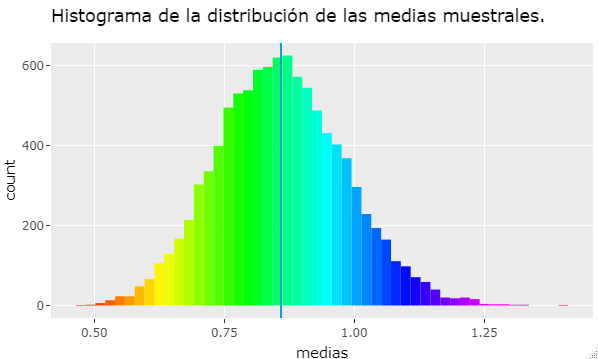
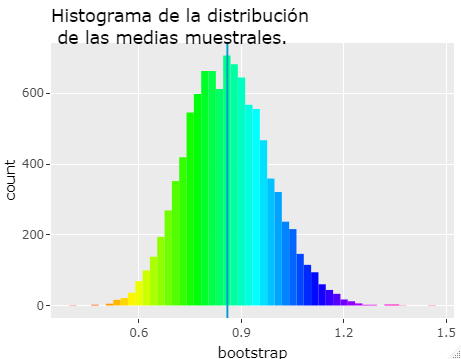
cambios imagen y de readme

diff --git a/README.md b/README.md
@@ -1,4 +1,4 @@
-# POSTWORK 1 Sesión 1.
+# POSTWORK 1.
 
 # Objetivo
 
@@ -13,6 +13,7 @@ library(ggplot2)
 library(RColorBrewer)
 library(dplyr)
 library(boot)
+library(plotly)
 ```
 
  2. Ajustamos nuestro espacio de trabajo con
@@ -131,17 +132,24 @@ data = union_all(data,df_1920)
 ```
  4. Un gráfico de barras para las probabilidades marginales estimadas del número de goles que anota el equipo de casa.
 ```R
-barplot(FTHG.tab,main = "Equipo de casa", col = c("blue","yellow","orange","green"))
+barplot(FTHG.tab,main = "Equipo de casa (FTHG)",
+        col = c(brewer.pal(8, "Dark2")),
+        xlab = "Número de goles",
+        ylab = "Frecuencia")
+
 ```
 
-<img src="imagenes/goles_FTHG.jpeg" align="center" height="250" width="400">
+<img src="imagenes/goles_FTHG.jpeg" align="center" height="470" width="400">
 
  5. Un gráfico de barras para las probabilidades marginales estimadas del número de goles que anota el equipo visitante.
 ```R
-barplot(FTAG.tab,main = "Equipo visitante", col = c("purple","orange","blue","pink"))
+barplot(FTAG.tab,main = "Equipo visitante (FTAG)",
+        col = c(brewer.pal(5, "Set1")),
+        xlab = "Número de goles",
+        ylab = "Frecuencia")
 ```
 
-<img src="imagenes/goles_FTAG.jpeg" align="center"  height="250" width="400">
+<img src="imagenes/goles_FTAG.jpeg" align="center"  height="470" width="400">
 
  6. Un HeatMap para las probabilidades conjuntas estimadas de los números de goles que anotan el equipo de casa y el equipo visitante en un partido.
 
@@ -154,7 +162,7 @@ ggplot(conjunto.df,aes(x=FTHG,y=FTAG, fill=Frecuencia)) +
   geom_text(aes(label=round(Frecuencia,3)), size=3)
 ```
 
-<img src="imagenes/Heatmap.png"  align="center" height="250" width="500">
+<img src="imagenes/Heatmap.png"  align="center" height="470" width="500">
 
 
 # POSTWORK 4
@@ -164,37 +172,31 @@ ggplot(conjunto.df,aes(x=FTHG,y=FTAG, fill=Frecuencia)) +
 - Investigar la dependencia o independecia de las variables aleatorias X y Y, el número de goles anotados por el equipo de casa y el número de goles anotados por el equipo visitante.
 
 # Desarrollo
- 1. Obten tabla de cocientes pc/pm
-
+ 1. Obten tabla de cocientes de probabilidad conjunta entre el producto de las probabilidades marginales 
 ```R
-conjunto.df <- cbind.data.frame(conjunto.tab, matrix(0,dim(conjunto.df)[1], dim(conjunto.df)[2] ) )
-colnames(conjunto.df) <- c("FTHG","FTAG","ProbAcum", "ProbH", "ProbA", "Cocientes")
+FTHG.df <- as.data.frame(FTHG.tab)
+FTAG.df <- as.data.frame(FTAG.tab)
+
+conjunto.df <- cbind(conjunto.df, rep(FTHG.df$Freq,nrow(FTAG.df)),rep(FTAG.df$Freq, each=nrow(FTHG.df)))
+colnames(conjunto.df) <- c("FTHG","FTAG", "ProbAcum", "ProbH","ProbA")
+conjunto.df <- mutate(as.data.frame(conjunto.df), Cocientes=ProbAcum/(ProbH*ProbA))
 ```
 
- 2. Obten tabla de cocientes Pcoc = pc/pm
+ 2. Gráfico de barras de cocientes
 ```R
-Pcoc = matrix(0, dim(conjunto.tab)[1],dim(conjunto.tab)[2])
-for (j in 1:dim(conjunto.tab)[2]) {
-  for (i in 1:dim(conjunto.tab)[1]) {
-    
-    Pcoc[i,j] <- conjunto.tab[i,j]/as.vector(FTHG.tab[i]*FTAG.tab[j])
-    # print(i+(9*(j-1)))
-    conjunto.df[(i+(9*(j-1))),4] = FTHG.tab[i]
-    conjunto.df[(i+(9*(j-1))),5] = FTAG.tab[j]
-    conjunto.df[(i+(9*(j-1))),6] = Pcoc[i,j]
-    
-  }
-}
+hist(conjunto.df$Cocientes, breaks = seq(0,5,0.5), #braques donde se va partieno
+     main = "Tabla de Cocientes",
+     xlab = "Cociente",
+     ylab = "Frecuencia",
+     col = c(brewer.pal(5, "YlOrRd")))
+median(conjunto.df$Cocientes)
 
 #CODIGO DE SOFIA
 ```
-<img src="imagenes/TablaCocientes.png" height="250" width="500">
+<img src="imagenes/TablaCocientes.png" height="470" width="400">
 
 
 ```R
-install.packages("plotly")
-library(plotly)
-
 bootstrap <- replicate(n=10000, sample(conjunto.df$Cocientes, replace = TRUE))
 medias<-apply(bootstrap, 2, mean)
 gdf4<-ggplot() + 
@@ -204,13 +206,15 @@ gdf4<-ggplot() +
 ggplotly(gdf4)
 ```
 
-<img src="imagenes/histdist.png" height="350" width="600">
+<img src="imagenes/histdist.png" height="470" width="500">
 
 
 # CONCLUSIÓN
 
  Con esta prueba de hipótesis de dos colas se obtiene:
 ```R
+  t.test(bootstrap, alternative = "two.sided", mu = 1, conf.level = 0.95)
+  
   p-value < 2.2e-16 < 0.05 = α
 ```
  por lo que se rechaza la hipótesis nula, es decir, se rechaza que la media de la distribución sea igual a 1.
